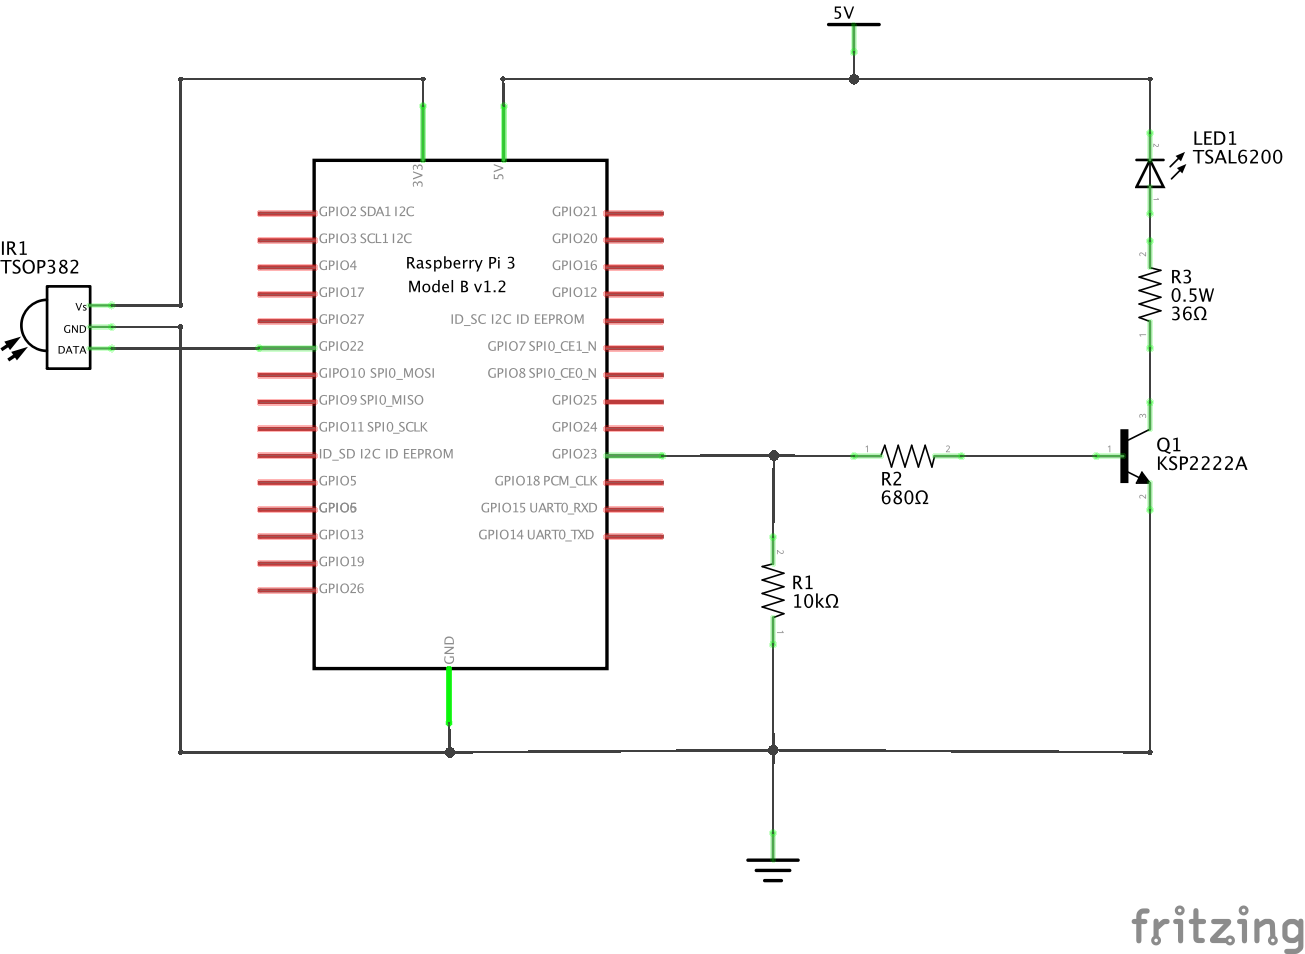
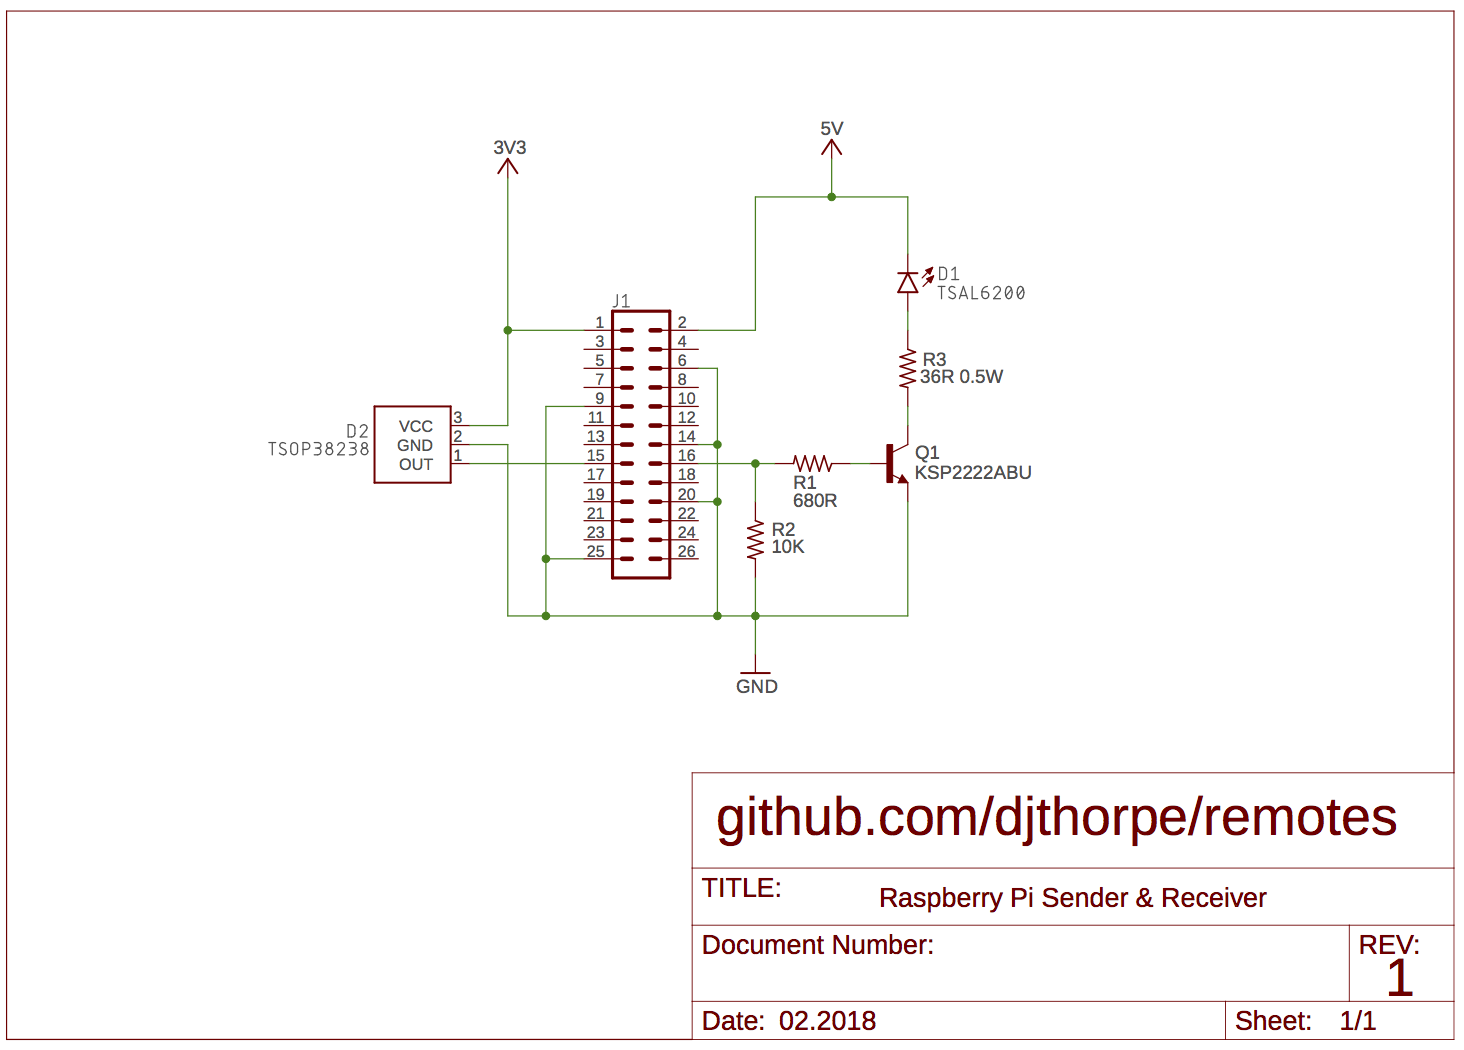
Updated readme and schematic

diff --git a/README.md b/README.md
@@ -1,15 +1,31 @@
-# remotes
-Transcoding, Sending and Receiving Infrared Remote codes
+# IR Sending and Receiving
 
-For the Raspberry Pi you should add this to your `/boot/config.txt` file
-in order to load the LIRC driver:
+This repository contains software which provides the ability to send 
+and receive infrared signals for a variety of devices usually controlled
+using Infrared Remote Controllers (TV's, CD players, etc)
+on a Raspberry Pi. In order to use it, you'll need some IR Sending and 
+Receiving hardware, which you can build yourself. The schematics and bill of 
+materials are listed below.
+
+## Installation
+
+This software has been tested on Raspbian Jessie. Any linux flavour which
+provides the `lirc` driver should work fine. Firstly, you should add this 
+to your `/boot/config.txt` file in order to load the LIRC (Linux Infrared Control) 
+driver, and then reboot your Raspberry Pi:
 
 ```
-dtoverlay=lirc-rpi,gpio_in_pin=23,gpio_out_pin=22
+dtoverlay=lirc-rpi,gpio_in_pin=22,gpio_out_pin=23
 ```
 
+Your LIRC should then be able to see the device `/dev/lirc0`. The best reference
+for this device is [here](https://www.kernel.org/doc/html/latest/media/uapi/rc/lirc-dev-intro.html).
 
-## Bill Of Materials
+## Schematic
+
+Here is the schematic of the circuit with the bill of materials:
+
+![IR Schematic](https://raw.githubusercontent.com/djthorpe/remotes/master/etc/ir_schematic.png)
 
 | Part                  | Description |
 | ---- | ---- |
@@ -20,9 +36,14 @@ dtoverlay=lirc-rpi,gpio_in_pin=23,gpio_out_pin=22
 |  36Ω ±1% 0.6W         | MRS25 Resistor A/P,0.6W,1%,36R |
 |  HV100                | TE Connectivity AMPMODU HV100 Series 2.54mm Pitch 26 Way 2 Row Straight PCB Socket, Through Hole, Solder Termination |
 
+If you want to make a PCB of this design you can [manufacturer one here from Aisler](https://aisler.net/djthorpe/djthorpe/raspberry-pi-ir-sender-receiver).
 
+## Downloading The Software
 
+You'll need a working Go Language environment to compile and install the software. Once installed,
+you can use the following command to install the binaries:
 
-
-
+```
+bash% go install github.com/djthorpe/remotes
+```
 
